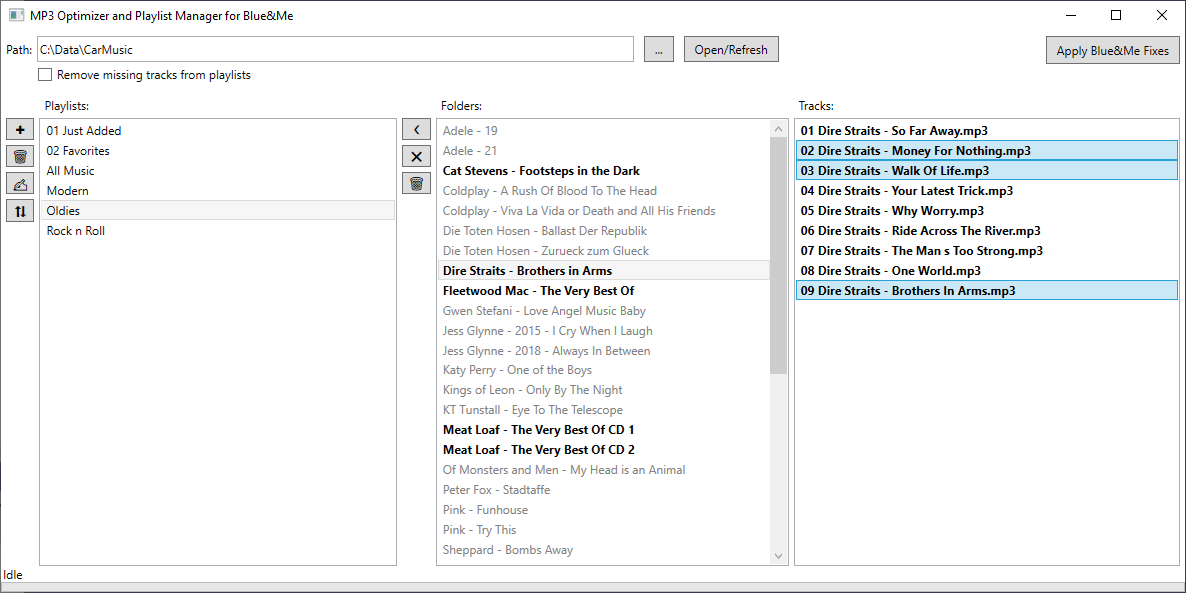
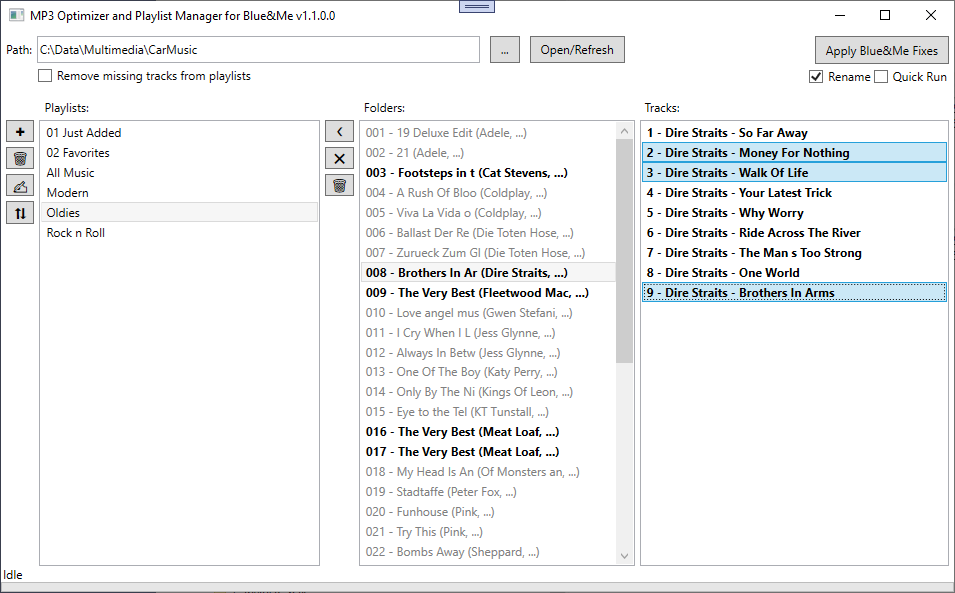
- Fixed that displayed track data was not updated when running without "Rename Files" selected - Updated Readme

diff --git a/BlueAndMeManager/ViewModel/Track.cs b/BlueAndMeManager/ViewModel/Track.cs
@@ -19,15 +19,15 @@ namespace BlueAndMeManager.ViewModel
 
     public string RelativePath { get; }
 
-    public string Album { get; }
+    public string Album { get; private set; }
 
-    public string Artist { get; }
+    public string Artist { get; private set; }
 
-    public string Title { get; }
+    public string Title { get; private set; }
 
-    public uint TrackNr { get; }
+    public uint TrackNr { get; private set; }
 
-    public string Genre { get; }
+    public string Genre { get; private set; }
 
     public IEnumerable<Track> Tracks => new[] { this };
 
@@ -56,6 +56,15 @@ namespace BlueAndMeManager.ViewModel
       Genre = coreTrack.Genre;
 
       RelativePath = Utilities.GetRelativePath(musicFolder.MusicDrive.FullPath, coreTrack.FullPath);
+    }
+
+    public void UpdateMetaData(FilesystemCache.Track coreTrack)
+    {
+      Album = coreTrack.Album;
+      Artist = coreTrack.Artist;
+      Title = coreTrack.Title;
+      TrackNr = coreTrack.TrackNr;
+      Genre = coreTrack.Genre;
     }
 
     public void UpdatePlaylistContainmentState()

diff --git a/BlueAndMeManager/View/MainWindow.xaml.cs b/BlueAndMeManager/View/MainWindow.xaml.cs
@@ -170,7 +170,7 @@ namespace BlueAndMeManager.View
       var fixer = new BlueAndMeFixer(MusicDrive.FullPath, MusicDrive.TracksInScope.Select(x => x.FullPath), RenameFilesCheckBox.IsChecked == true, QuickRunCheckBox.IsChecked == true);
 
       var result =MessageBox.Show(this,
-        $"CAUTION! This will overwrite the meta information (ID3 tags)! Some information may be removed or altered to fulfill Blue&Me restrictions!\n\n{fixer.AffectedFilesCount} files will be affected.\n\nDo you want to continue?",
+        $"CAUTION! This will overwrite the song information (ID3 tags). Information may be removed or altered to fulfill Blue&Me restrictions!\n\n{fixer.AffectedFilesCount} files will be affected.\n\nDo you want to continue?",
         "Warning", MessageBoxButton.YesNo, MessageBoxImage.Warning, MessageBoxResult.No);
 
       if (result != MessageBoxResult.Yes)

diff --git a/BlueAndMeManager/ViewModel/MusicFolder.cs b/BlueAndMeManager/ViewModel/MusicFolder.cs
@@ -98,6 +98,10 @@ namespace BlueAndMeManager.ViewModel
           track = new Track(this, newCoreTrack);
           _tracks.Insert(lastIdx, track);
         }
+        else
+        {
+          track.UpdateMetaData(newCoreTrack);
+        }
         MusicDrive.TrackByFullPath[newCoreTrack.FullPath] = track;
 
         lastIdx++;

diff --git a/README.md b/README.md
@@ -11,28 +11,29 @@ The tool also supports playlist creation. You can quickly select the desired fil
 1. Go to the [release page](https://github.com/till-f/MP3-Optimizer-for-Blue-Me/releases) and get the latest version.
 2. Extract the archive.
 3. Run BlueAndMeManager.exe.
-	- *Note: You might be asked to install .NET Core, which is mandatory.*
+	- *You might be asked to install .NET Core, which is mandatory.*
 
 ## MP3 conversion
 
 1. Copy your .mp3 files to the USB stick.
-	- *Note: You can also copy them into an empty folder on your hard drive first.*
-	- *Note: It is recommended to use a flat folder structure (any number of folders in the root directory but no additional subdirectories).*
-	- *Note: If you already have .m3u playlists, you can also place them on the stick. All playlists must be in the root directory. Extended m3u playlists are not supported.*
+	- *You can also copy them into an empty folder on your hard drive first.*
+	- *It is recommended to use a flat folder structure (any number of folders in the root directory but no additional subdirectories).*
+	- *If you already have .m3u playlists, you can also place them on the stick. All playlists must be in the root directory. Extended m3u playlists are not supported.*
 2. Start the application and use the "..." button to select your USB stick or temporary folder from step 1. Alternatively, enter the corresponding path into the text field and click "Open/Refresh".
-	- *Note: You may tick "Remove missing tracks from playlists" if you get an error that a playlist could not be loaded due to missing files. The missing files will then be removed from all playlists.*
+	- *You may tick "Remove missing tracks from playlists" if you get an error that a playlist could not be loaded due to missing files. The missing files will then be removed from all playlists.*
 3. Start the conversion of all files by pressing "Apply Blue&Me Fixes".
-	- *Note: DO NOT RUN THIS ON YOUR ORIGINAL MEDIA LIBRARY! ID3 tags are removed and/or modified and the files may be moved/renamed.*
-	- *Note: you can also run the conversion for just a few files by first selecting them in the list below.*
-	- *Note: If playlists exists, they will automatically be adjusted to reflect any moved/renamed files.*
+	- *DO NOT RUN THIS ON YOUR ORIGINAL MEDIA LIBRARY! ID3 tags are removed and/or modified and the files may be renamed.*
+	- *Select "Rename Files" to improve playlist loading time and for large playlist support (Blue&Me crashes if filenames in playlists are too long).*
+	- *You can also run the conversion for just a few files by first selecting them in the list below. Note that this is not supported when "Rename Files" is selected.*
+	- *If playlists exists, they will automatically be adjusted to reflect any moved/renamed files.*
 
 ## Playlist creation
 
 1. If not already done, follow steps 1 and 2 from above.
 2. Create a new playlist by clicking the "Add Playlist" button.
 3. Add the desired files to the playlist (use Ctrl+Click or Shift+Click for multi-selection).
-	- *Note: Press `Return` to add the selected files to the selected playlist. Alternatively, use Drag&Drop or click on the "Add Selection to Playlist" button.*
-	- *Note: Press `Delete` to remove the selected files from the selected playlist or click on the "Remove Selection from Playlist" button.*
+	- *Press `Return` to add the selected files to the selected playlist. Alternatively, use Drag&Drop or click on the "Add Selection to Playlist" button.*
+	- *Press `Delete` to remove the selected files from the selected playlist or click on the "Remove Selection from Playlist" button.*
 4. Click on the "Reorder Playlist" button to change the order in which the files should be played.
-	- *Note: Use Drag&Drop to move all selected files up or down.*
+	- *Use Drag&Drop to move all selected files up or down.*
  
